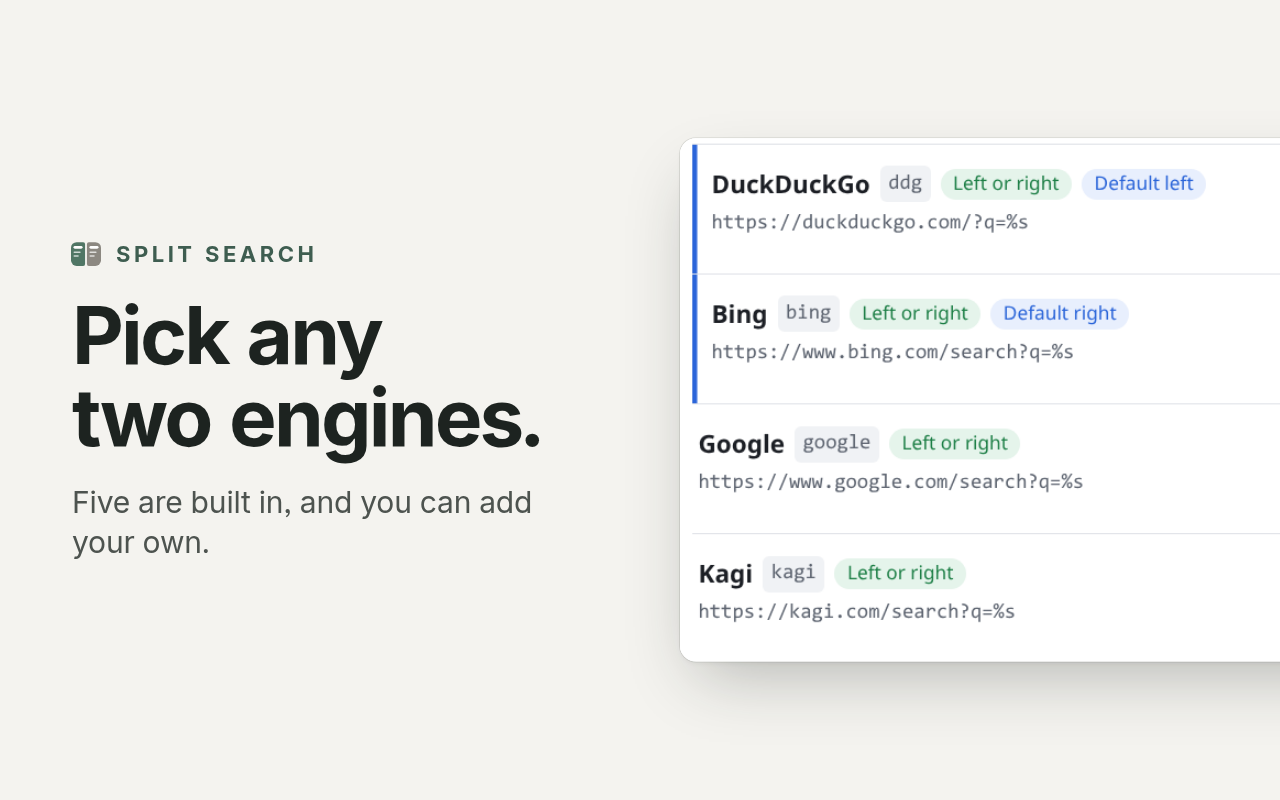
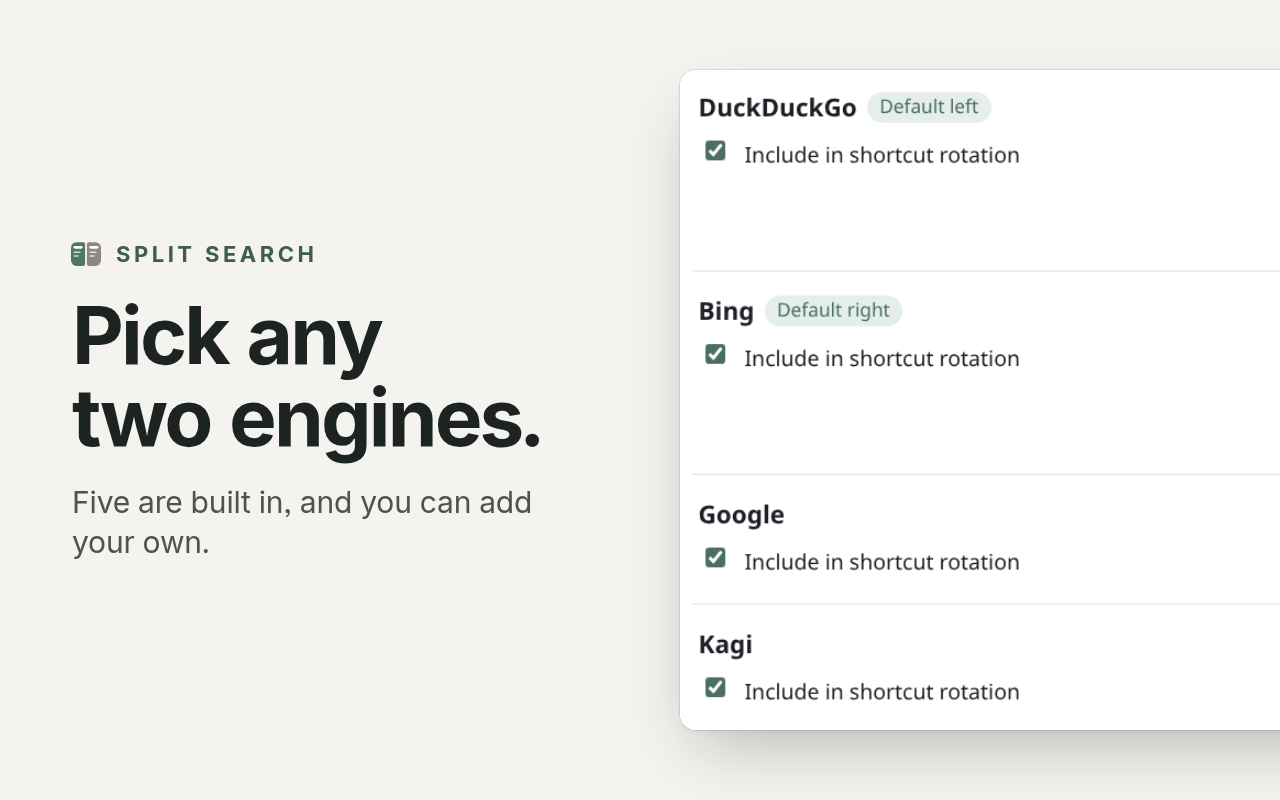
chore(assets): re-shoot the en settings screenshots and re-render
Re-shoot en/options-top, options-engines and options-fullpage after the UI refresh in a throwaway profile on a private Xvfb, adjust the store screenshot 4 and marquee crops to the taller engine rows, and re-render the en assets. captions.md records the environment.

Claude-Session: https://claude.ai/code/session_01QAFczmx2FRoPgu46A1z6D9

Changed region(s): [[0.5312, 0.5312, 1.0, 0.9375], [0.5312, 0.125, 0.9375, 0.5]]

diff --git a/assets/templates-v2/store-4-engines.html b/assets/templates-v2/store-4-engines.html
@@ -7,8 +7,9 @@
 <style>
   /* 左栏字，右侧是设置页“Search engines”卡片里引擎列表的前四行：DuckDuckGo（Default left）、Bing（Default right）、Google、Kagi。
      Perplexity 不放：它在设置页带“Better on the right”提示，裁掉提示只剩“Left or right”会说过头；放上提示，提示句在画布右缘被截断。
-     原图 x 648 起，蓝色指示条离卡片左缘约 11px（再贴边，Google、Kagi 两行的字就离边不到 10px）；y 646–1122 是四行（下沿切在 Kagi 行下的分隔线之上，行内自带的下边距已够，不再加白边）。
-     缩放 1.1，引擎名约 29px、网址约 20px。窗口左缘 680，向右出血：画布内可见原图 x 648–1193（标签止于约 1056，“Access granted”列在 1560 以后）。 */
+     原图（2026-10-26 界面翻新后重拍）x 648 起，行左缘 658、引擎名从约 665 起，离卡片左缘约 19px；y 308–908 是四行（上沿在 DuckDuckGo 行顶的分隔线之下，下沿切在 Kagi 行下的分隔线之上）。
+     DuckDuckGo、Bing 两行右侧有“默认组合在用，不能隐藏”的说明，所以比另外两行高，说明本身在画布外，左栏留白是真实界面。
+     缩放 1.1，引擎名约 29px。窗口左缘 680，向右出血：画布内可见原图 x 648–1193（标签止于约 1030，“Access granted”列在 1550 以后）。 */
   .win { left: 680px; top: 50%; width: 1240px; transform: translateY(-50%); }
   .crop { width: 1232px; }
 </style></head>
@@ -19,6 +20,6 @@
     <p class="sub" data-t="s4.sub" data-lines="2"></p>
   </div>
   <!-- 真实截图：设置页的搜索引擎列表（英文界面，五个预置引擎都已授权） -->
-  <div class="win"><div class="crop" data-crop="648,646,1120,476"><img src="../raw/options-engines.png" data-iw="2400" alt=""></div></div>
+  <div class="win"><div class="crop" data-crop="648,308,1120,600"><img src="../raw/options-engines.png" data-iw="2400" alt=""></div></div>
   <script src="../templates/crop.js"></script>
 </body></html>

diff --git a/assets/templates-v2/promo-marquee.html b/assets/templates-v2/promo-marquee.html
@@ -32,8 +32,8 @@
     <!-- 真实截图：地址栏下拉框（输入 rust ownership，建议“DuckDuckGo | Bing Search”），左缘是下拉框左边，下沿切在建议行灰底之下 -->
     <div class="win a"><div class="crop" data-crop="226,62,606,126"><img src="../raw/omnibox-suggest.png" data-iw="2400" alt=""></div></div>
     <div class="cap"><b>02</b><span data-t="marquee.cap2"></span></div>
-    <!-- 真实截图：设置页引擎列表的前两行，DuckDuckGo 标着 Default left、Bing 标着 Default right；左缘是蓝色指示条 -->
-    <div class="win b"><div class="crop" data-crop="658,646,678,240"><img src="../raw/options-engines.png" data-iw="2400" alt=""></div></div>
+    <!-- 真实截图：设置页引擎列表的前两行，DuckDuckGo 标着 Default left、Bing 标着 Default right；左缘比行左缘（658）多留 18px，下沿切在 Bing 的轮换开关之下 -->
+    <div class="win b"><div class="crop" data-crop="640,310,678,290"><img src="../raw/options-engines.png" data-iw="2400" alt=""></div></div>
   </div>
   <script src="../templates/crop.js"></script>
 </body></html>

diff --git a/assets/raw/captions.md b/assets/raw/captions.md
@@ -72,9 +72,9 @@ convert drag-to-tabstrip.png \
 
 | 文件 | 内容 |
 |---|---|
-| `en/options-top.png` | 设置页首屏（英文界面）：标题、语言下拉框、默认组合、“Add to Chrome”卡片里的触发网址 |
-| `en/options-engines.png` | 设置页滚动到“Search engines”卡片，卡片上缘与中文版同高（左右比中文版偏左 11px，模板用 `data-crop-en`） |
-| `en/options-fullpage.png` | 设置页整页（CDP `Page.captureScreenshot`），2376×3312 |
+| `en/options-top.png` | 设置页首屏（英文界面，2026-10-26 重拍，见下文“设置页三张的重拍”）：标题、语言下拉框、“Get started”卡（第 1 步“DuckDuckGo: access granted”，第 2 步里的触发网址 `https://duckduckgo.com/?q=%s&_ss=ddg,bing`，第 3 步“Try it”）、“Default pair”卡开头的左右两个窗格 |
+| `en/options-engines.png` | 设置页滚动到“Search engines”卡片，卡片上缘在视口顶下 8 CSS 像素（原图 y≈143）；五个引擎都是“Access granted”，DuckDuckGo、Bing 带“Default left/Default right”和“默认组合在用，不能隐藏”的说明（2026-10-26 重拍） |
+| `en/options-fullpage.png` | 设置页整页（CDP `Page.captureScreenshot`），2376×4709（2026-10-26 重拍） |
 | `en/split-ddg-bing-rust.png` | 新标签打开触发网址 `https://duckduckgo.com/?q=rust+programming&_ss=ddg,bing`，扩展建成 DuckDuckGo ｜ Bing 拆分视图；标签栏里是“Split Search settings”和两个分屏标签 |
 | `en/drag-to-tabstrip.png` | 英文维基百科“Rust (programming language)”，在正文“Software developer Graydon Hoare created Rust…”里选中“Graydon Hoare”（不是链接），用 xdotool 真实按下拖到标签栏空白处（落点 1460,30），没松手时截图。第一个标签旁同样有 Xvfb 下的黑底插入箭头（397,61），商店截图 3（v2）的裁切包含它，用 `en/patches/` 的修补图盖掉（见“修补”） |
 | `en/drag-result-split.png` | 松手后：默认搜索引擎（触发网址）打开新标签，扩展建成 DuckDuckGo ｜ Bing 拆分视图，查询词“Graydon Hoare” |
@@ -82,5 +82,17 @@ convert drag-to-tabstrip.png \
 | `en/omnibox-result-split.png` | 回车后扩展在原分屏里更新两侧，查询词“rust ownership” |
 
 两次拍摄：第一次拍了全部 8 张，但拖拽落点（1509,30）离选区太远，商店截图 3 的左块装不下选区和拖拽影像；第二次只把落点改到 1460,30 重拍拖拽和地址栏两组。`en/drag-to-tabstrip.png` 取第二次的；`en/drag-result-split.png`、`en/omnibox-*.png` 取第一次的（同一流程、同一查询词，第二次的地址栏下拉多了一条第一次留下的历史记录）。
+
+### 设置页三张的重拍（2026-10-26，v0.4 界面翻新）
+
+界面翻新（配色、“开始使用”卡、左右窗格、引擎行精简）之后，只重拍了画面里有设置页的三张 `en/options-*.png`。另外五张英文图里的设置页只是标签栏上的标签标题“Split Search settings”，没有变，不重拍。
+
+- Google Chrome 156.0.8078.47（Linux），`--lang=en-US`、`LANGUAGE=en_US:en`，另加 `--disable-features=Translate`，并在启动前往临时配置的 `Default/Preferences` 写 `translate.enabled: false`（只加启动参数不够）：设置页的静态 HTML 是 `lang="zh-CN"`，全新配置里 Chrome 会在右上角弹“要翻译此页吗（中文）”的气泡，盖住页面右上角。
+- 私有 Xvfb（:131，2400×1500，`/opt/google/chrome/google-chrome` 固定缩放 1.5，窗口 1600×1000 CSS 像素），`import -window root` 截整屏，没有鼠标指针。
+- 全新的临时配置（`--disable-sync`，没有登录 Chrome 账号和任何网站），拍完删除；没有用 e2e 测试配置。字体配置同 e2e 的 `launch()`（排除 9P 挂载上的 Windows 字体）。
+- 扩展从本仓库 `src/` 用 CDP `Extensions.loadUnpacked` 加载，版本 0.4.0（界面翻新后、提交前的工作区，含“右键查询”卡片两个下拉框的排版修正）。
+- `storage.sync` 写成 `uiLocale: "en"`、默认组合 DuckDuckGo ｜ Bing、引擎排序 DuckDuckGo、Bing、Google、Kagi、Perplexity；`storage.local` 没有 `setupDone`，所以“开始使用”卡显示三步。
+- 授权：在设置页里一次申请五个预置引擎的网站，Chrome 弹出授权框后用 xdotool 按 Tab、回车点“允许”（和用户点击效果相同）。所以第 1 步显示“已授权”，引擎列表全部“Access granted”。
+- 模板裁切随之改了：商店截图 4 是 `648,308,1120,600`，顶部宣传图是 `640,310,678,290`（见 `assets/templates-v2/README.md`）。
 
 每张都逐一看过：没有中文、没有账号头像（右上角是未登录的默认图标）、没有 Kagi 或其他网站的令牌、IP 和浏览历史。网页内容是网站当时实际返回的结果，没有改过。

diff --git a/assets/templates-v2/README.md b/assets/templates-v2/README.md
@@ -34,7 +34,7 @@ node scripts/store/render-assets.mjs --locale en   # 商店 7 张来自本目录
 | 1 | `split-ddg-bing-rust.png` | 0,0,1800,760（右、下出血） | 0.69 |
 | 2 | `omnibox-suggest.png` | 226,62,900,126（窗口下沿 24px 白边） | 1.3 |
 | 3 | `drag-to-tabstrip.png` + `en/patches/` 修补图 | 0,-14,1800,790（右、下出血） | 0.68 |
-| 4 | `options-engines.png` | 648,646,1120,476（右出血） | 1.1 |
-| 顶部宣传图 | `omnibox-suggest.png`、`options-engines.png` | 226,62,606,126；658,646,678,240 | 0.95；0.85 |
+| 4 | `options-engines.png` | 648,308,1120,600（右出血） | 1.1 |
+| 顶部宣传图 | `omnibox-suggest.png`、`options-engines.png` | 226,62,606,126；640,310,678,290 | 0.95；0.85 |
 
 颜色、字体沿用 d1：纸底 `#F4F3EF`、墨色 `#1D2320`、副标题 `#4D534F`、唯一强调色松针绿 `#507665`（文字用 `#3E5D50`），只用更纱黑体（Sarasa UI SC，粗体即 Inter Bold）。
